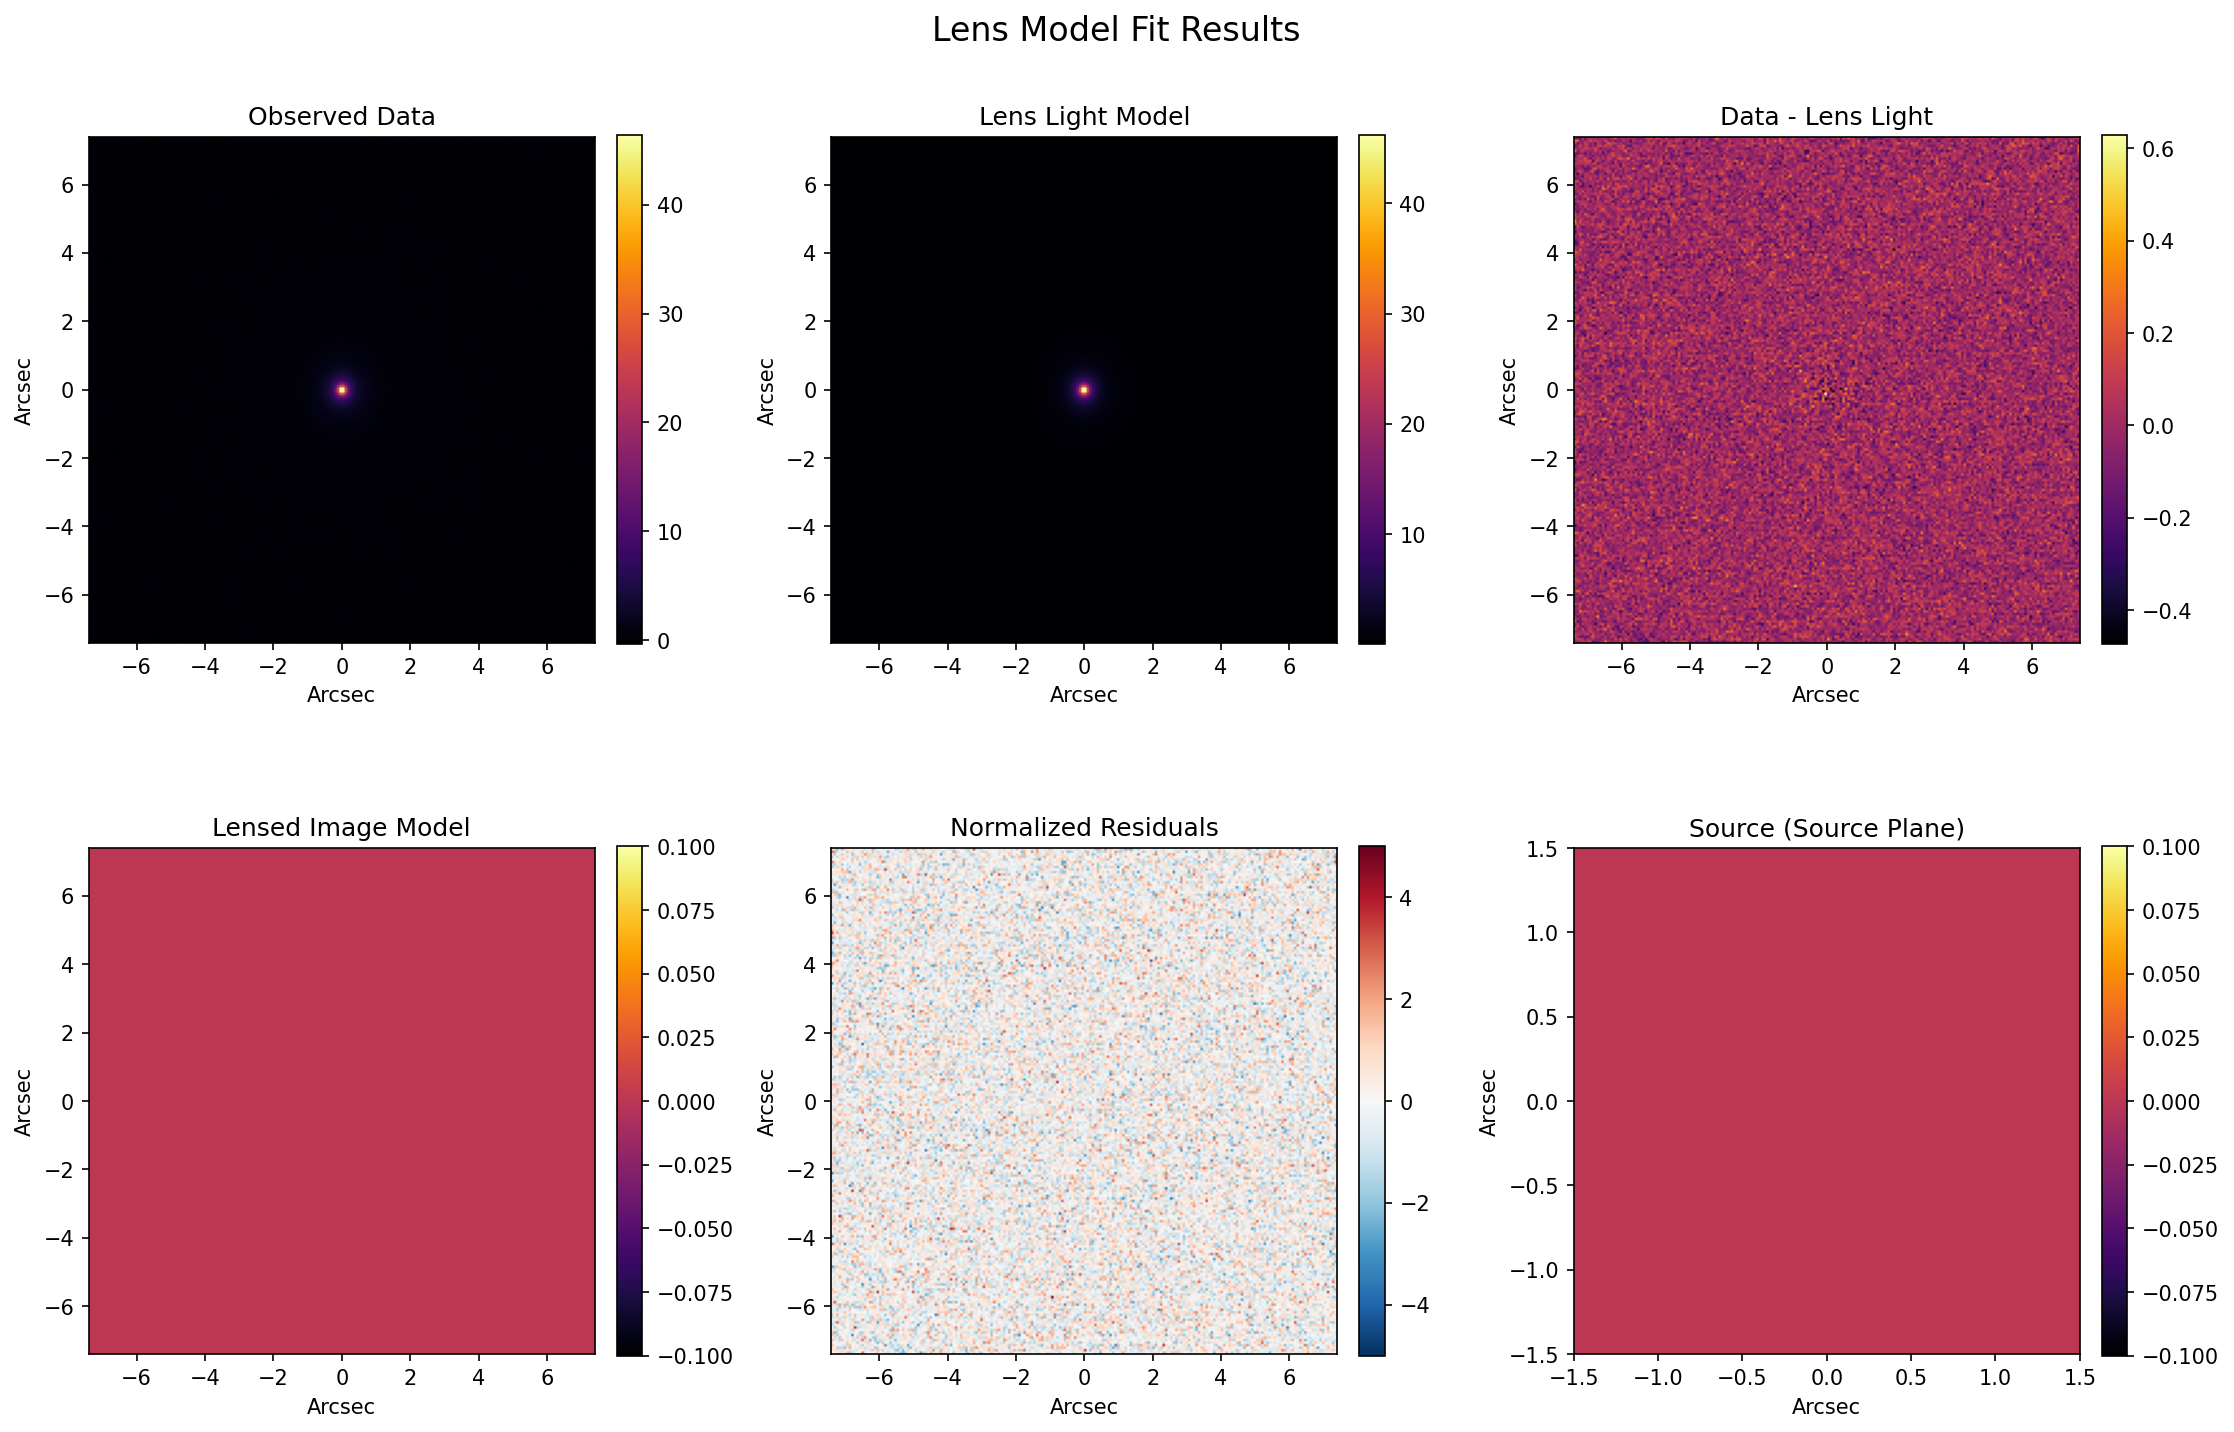
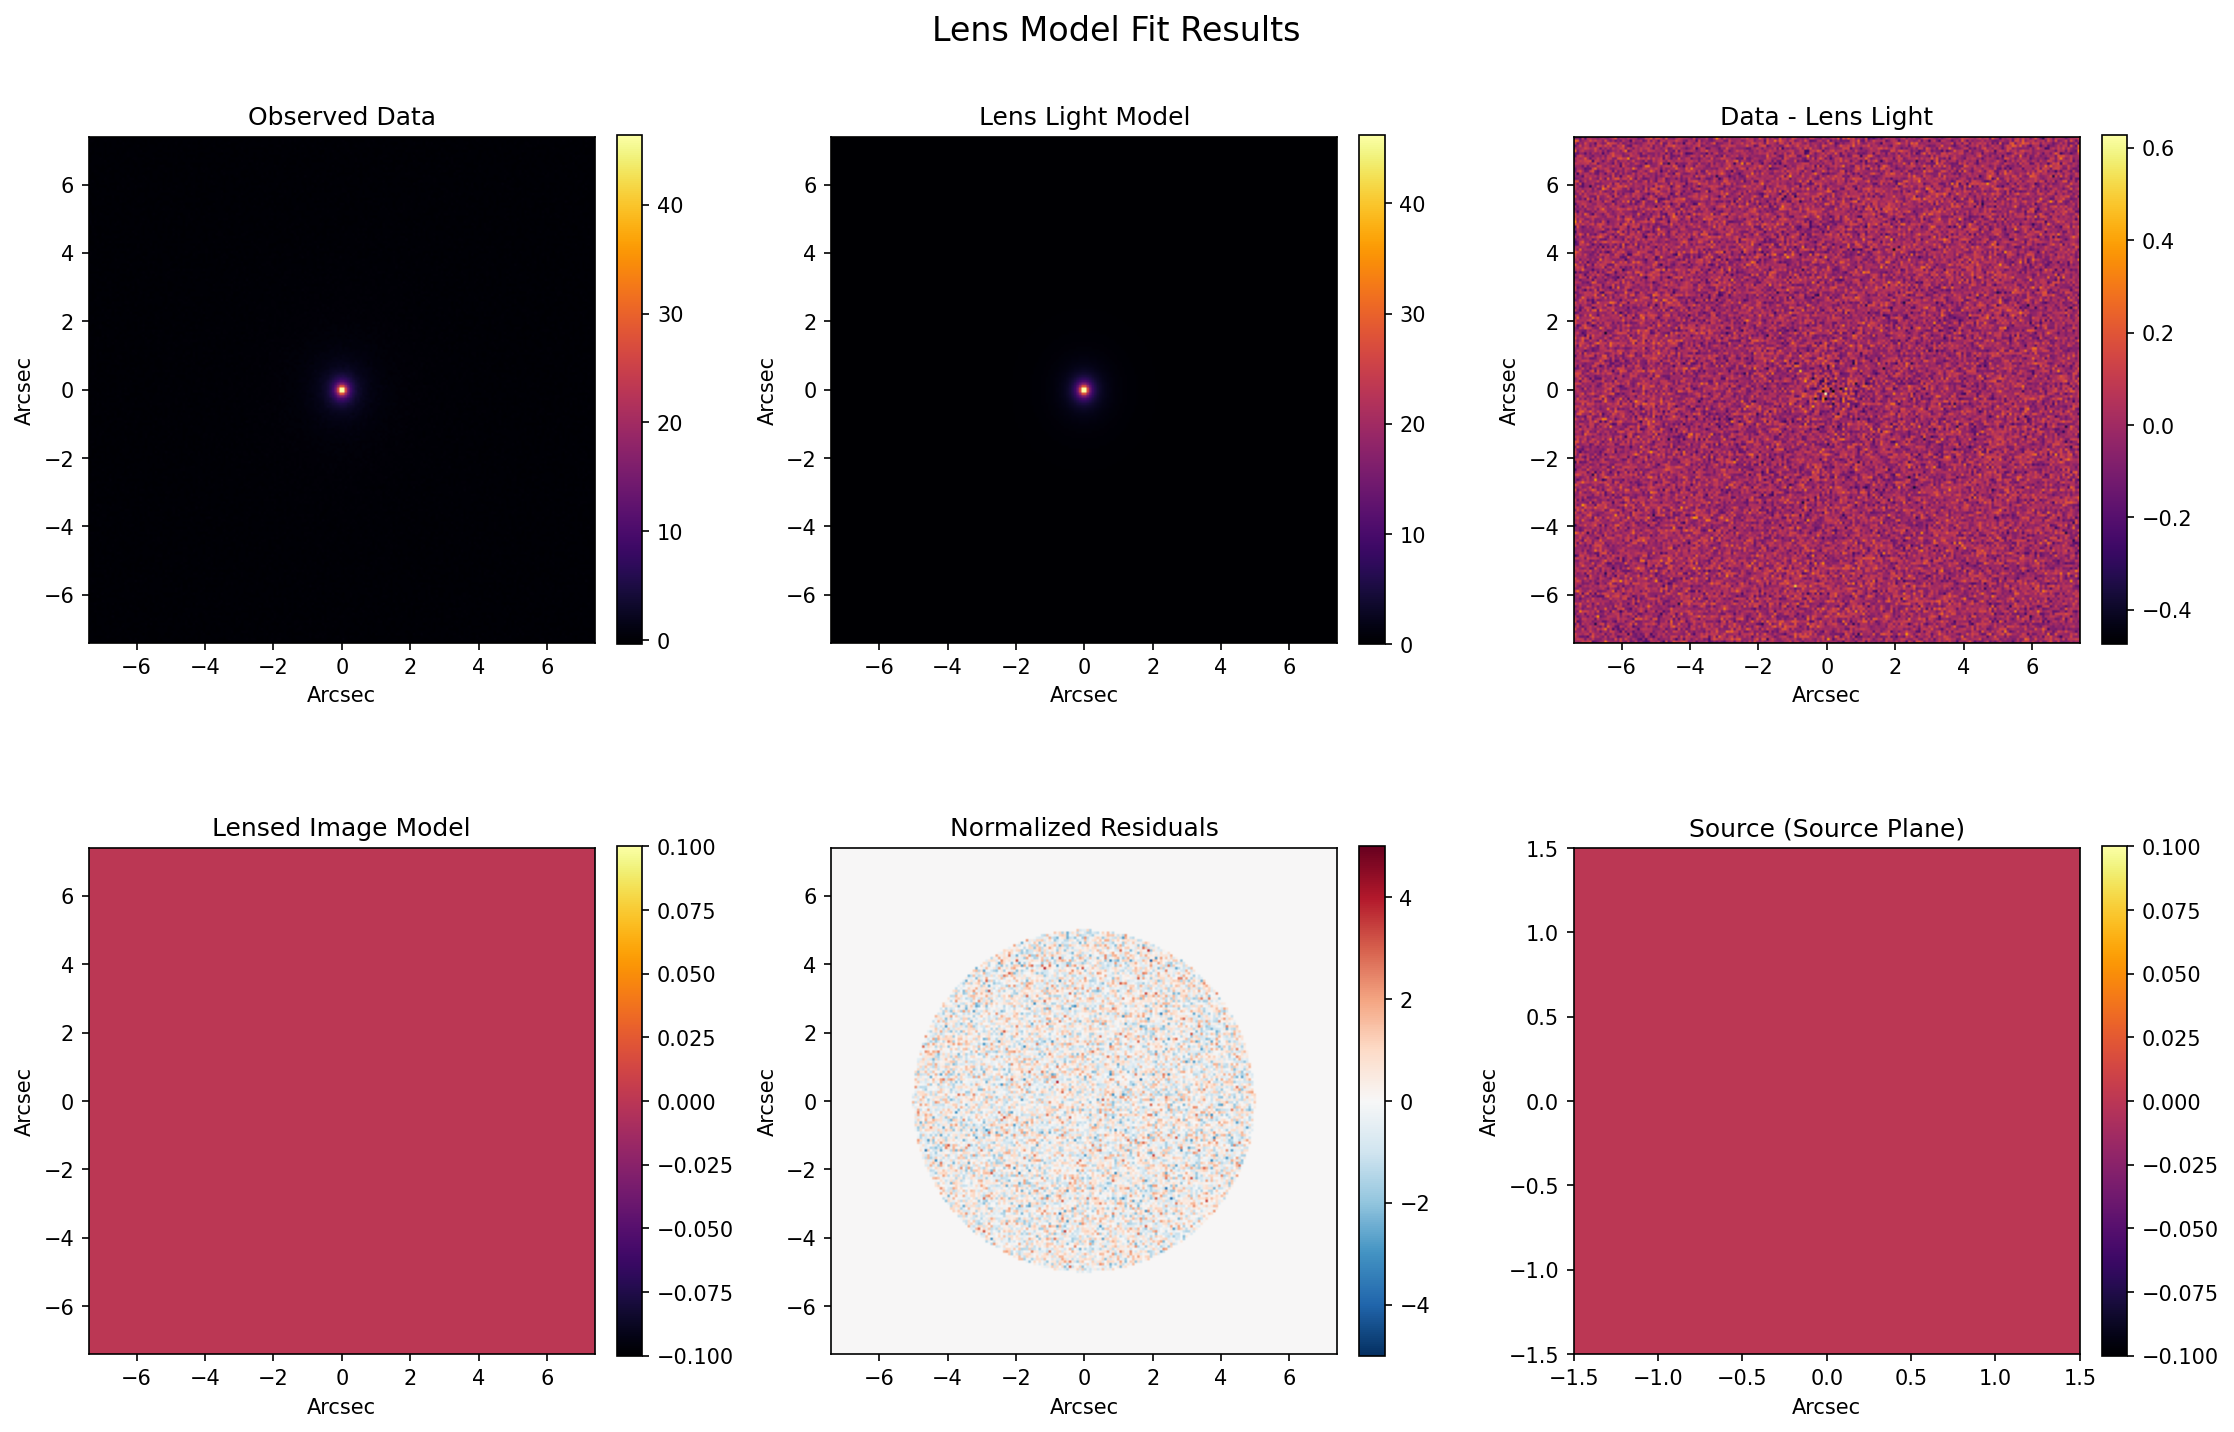
feat(simulator): add mask support and optimize subgrid handling
implement mask support in simulator configuration and lens simulator
add 1D subgrid arrays for unmasked pixels to improve performance
modify lens simulator to work with 1D arrays and restore 2D when needed

Changed region(s): [[0.3706, 0.5838, 0.6177, 0.9525]]

diff --git a/TinyLensGpu/Simulator/lens_simulator.py b/TinyLensGpu/Simulator/lens_simulator.py
@@ -99,9 +99,52 @@ class LensSimulator:
         self.linear_solver = LinearSolver(solver_type)
 
         # Pre-convert grids to JAX arrays
-        self.xgrid_sub = jnp.array(self.sim_config.xgrid_sub)
-        self.ygrid_sub = jnp.array(self.sim_config.ygrid_sub)
+        # Always use 1D grids
+        self.xgrid_sub = jnp.array(self.sim_config.xgrid_sub_1d)
+        self.ygrid_sub = jnp.array(self.sim_config.ygrid_sub_1d)
+            
         self.psf_kernel = jnp.array(self.sim_config.psf_kernel)
+
+    def _restore_2d_from_1d(self, img_1d: Array) -> Array:
+        """
+        Restore 2D image from 1D array using pre-computed indices.
+        
+        Parameters
+        ----------
+        img_1d : array_like
+            1D array of unmasked pixels, shape (n_unmasked, ...)
+            
+        Returns
+        -------
+        img_2d : array_like
+            Restored 2D image, shape (ny_sub, nx_sub, ...)
+        """
+        # Get shapes and indices from config
+        shape = self.sim_config.subgrid_shape
+        flat_indices = self.sim_config.flat_indices
+        
+        N, M = shape
+        n_pixels = N * M
+        
+        # Optimization: If no masking (all pixels used), avoid scatter
+        if flat_indices.shape[0] == n_pixels:
+            if img_1d.ndim > 1:
+                n_channels = img_1d.shape[-1]
+                return img_1d.reshape(N, M, n_channels)
+            else:
+                return img_1d.reshape(N, M)
+        
+        # Handle multi-channel (e.g., separate components)
+        if img_1d.ndim > 1:
+            n_channels = img_1d.shape[-1]
+            # Use zeros for masked pixels
+            flat_img = jnp.zeros((n_pixels, n_channels), dtype=img_1d.dtype)
+            flat_img = flat_img.at[flat_indices].set(img_1d)
+            return flat_img.reshape(N, M, n_channels)
+        else:
+            flat_img = jnp.zeros(n_pixels, dtype=img_1d.dtype)
+            flat_img = flat_img.at[flat_indices].set(img_1d)
+            return flat_img.reshape(N, M)
 
     def simulate(
         self,
@@ -243,9 +286,9 @@ class LensSimulator:
         Parameters
         ----------
         xgrid_sub : array_like
-            X-coordinates at subsampled resolution, shape [ny_sub, nx_sub]
+            X-coordinates at subsampled resolution, shape [n_pixels]
         ygrid_sub : array_like
-            Y-coordinates at subsampled resolution, shape [ny_sub, nx_sub]
+            Y-coordinates at subsampled resolution, shape [n_pixels]
         n_src : int
             Number of source light components
         n_lens_light : int
@@ -256,12 +299,12 @@ class LensSimulator:
         Returns
         -------
         img_lens_sub : array_like
-            Lens light images, shape [ny_sub, nx_sub, n_lens_light]
+            Lens light images, shape [n_pixels, n_lens_light]
         img_arc_sub : array_like
-            Source light images, shape [ny_sub, nx_sub, n_src]
+            Source light images, shape [n_pixels, n_src]
         """
         # Initialize output arrays
-        img_sub = jnp.zeros_like(xgrid_sub)  # [ny_sub, nx_sub]
+        img_sub = jnp.zeros_like(xgrid_sub)  # [n_pixels]
         img_arc_sub = jnp.repeat(img_sub[..., jnp.newaxis], n_src, axis=-1)
         img_lens_sub = jnp.repeat(img_sub[..., jnp.newaxis], n_lens_light, axis=-1)
 
@@ -303,9 +346,9 @@ class LensSimulator:
         Parameters
         ----------
         img_lens_sub : array_like
-            Lens light, shape [ny_sub, nx_sub, n_lens]
+            Lens light, shape [n_pixels, n_lens]
         img_arc_sub : array_like
-            Source light, shape [ny_sub, nx_sub, n_src]
+            Source light, shape [n_pixels, n_src]
         psf_kernel : array_like
             PSF kernel, shape [ny_psf, nx_psf]
 
@@ -323,6 +366,11 @@ class LensSimulator:
         X_vec : None
             No intensity values for non-linear case
         """
+        # Restore 2D images from 1D input (unmasked pixels only)
+        # Input shape: (n_unmasked, n_components) -> Output shape: (ny, nx, n_components)
+        img_lens_sub = self._restore_2d_from_1d(img_lens_sub)
+        img_arc_sub = self._restore_2d_from_1d(img_arc_sub)
+
         if not ret_each_plane:
             img_sub = jnp.sum(img_lens_sub, axis=-1) + jnp.sum(img_arc_sub, axis=-1)
             img = bin_image_general(img_sub, self.sim_config.nsub)
@@ -358,9 +406,9 @@ class LensSimulator:
         Parameters
         ----------
         img_lens_sub : array_like
-            Lens light, shape [ny_sub, nx_sub, n_lens]
+            Lens light, shape [n_pixels, n_lens]
         img_arc_sub : array_like
-            Source light, shape [ny_sub, nx_sub, n_src]
+            Source light, shape [n_pixels, n_src]
         psf_kernel : array_like
             PSF kernel, shape [ny_psf, nx_psf]
         image_map : array_like
@@ -386,6 +434,10 @@ class LensSimulator:
         X_vec : array_like
             Intensity values, shape [n_lens+n_src]
         """
+        # Restore 2D images from 1D input (unmasked pixels only)
+        img_lens_sub = self._restore_2d_from_1d(img_lens_sub)
+        img_arc_sub = self._restore_2d_from_1d(img_arc_sub)
+
         # Prepare linear system
         A_mat, D_vec = prepare_linear_system(
             img_lens_sub, img_arc_sub, psf_kernel,

diff --git a/TinyLensGpu/Simulator/config.py b/TinyLensGpu/Simulator/config.py
@@ -82,16 +82,16 @@ class SimulatorConfig:
         self,
         dpix: float,
         npix: int,
-        psf_kernel: Optional[np.ndarray] = None,
+        psf_kernel: Optional[Array] = None,
         nsub: int = 1,
-        mask: Optional[np.ndarray] = None,
+        mask: Optional[Array] = None,
     ) -> None:
         self.dpix = dpix
         self.npix = npix
 
         # Default PSF: delta function
         if psf_kernel is None:
-            psf_kernel = np.array([[0.0, 0.0, 0.0],
+            psf_kernel = jnp.array([[0.0, 0.0, 0.0],
                                    [0.0, 1.0, 0.0],
                                    [0.0, 0.0, 0.0]])
         self.psf_kernel = psf_kernel
@@ -100,13 +100,43 @@ class SimulatorConfig:
 
         # Default mask: no masking
         if mask is None:
-            mask = np.zeros((npix, npix))
-        self.mask = mask.astype('bool')
+            mask = jnp.zeros((npix, npix))
+        self.mask = jnp.array(mask, dtype=bool)
 
         # Generate coordinate grids
         self.xgrid, self.ygrid, self.xgrid_sub, self.ygrid_sub = self.get_coords(
             self.npix, self.dpix, self.nsub
         )
+
+        # Prepare 1D subgrid arrays for unmasked pixels
+        self._prepare_1d_subgrid()
+
+    def _prepare_1d_subgrid(self):
+        """Pre-compute 1D arrays for unmasked pixels in the subgrid."""
+        # 1. Create subgrid mask (upsample image mask)
+        if self.nsub > 1:
+            # Repeat mask elements nsub times in both dimensions
+            self.mask_sub = jnp.repeat(jnp.repeat(self.mask, self.nsub, axis=0), self.nsub, axis=1)
+        else:
+            self.mask_sub = self.mask
+
+        # 2. Identify unmasked indices
+        self.unmask_sub = ~self.mask_sub
+        
+        # Use JAX arrays for indices
+        self.flat_indices = jnp.flatnonzero(self.unmask_sub)
+
+        # 3. Extract 1D coordinates
+        # Flatten the 2D subgrids
+        x_flat = self.xgrid_sub.flatten()
+        y_flat = self.ygrid_sub.flatten()
+        
+        # Select unmasked pixels
+        self.xgrid_sub_1d = x_flat[self.flat_indices]
+        self.ygrid_sub_1d = y_flat[self.flat_indices]
+        
+        # Store shape for reconstruction
+        self.subgrid_shape = self.xgrid_sub.shape
 
     @staticmethod
     def get_coords(npix: int, dpix: float, nsub: int = 1) -> Tuple[Array, Array, Array, Array]:

diff --git a/paper/demo/lens_only/sim_data.py b/paper/demo/lens_only/sim_data.py
@@ -65,4 +65,8 @@ fits.writeto('data/image.fits', np.asarray(noisy_image), overwrite=True)
 fits.writeto('data/noise.fits', np.asarray(noise_map), overwrite=True)
 fits.writeto('data/psf.fits', np.asarray(psf_kernel), overwrite=True)
 
+xgrid, ygrid = make_grid_2d(200, 0.074)
+rgrid = np.sqrt(xgrid**2 + ygrid**2)
+mask = rgrid > 5.0
+fits.writeto('data/mask.fits', np.asarray(mask).astype(np.int32), overwrite=True)
 # %%

diff --git a/paper/demo/lens_only/run_model.py b/paper/demo/lens_only/run_model.py
@@ -30,6 +30,7 @@ def build_problem():
         image_path='data/image.fits',
         noise_path='data/noise.fits',
         psf_path='data/psf.fits',
+        mask_path='data/mask.fits',
     )
     
     # Create lens light component with ParamU parameters
